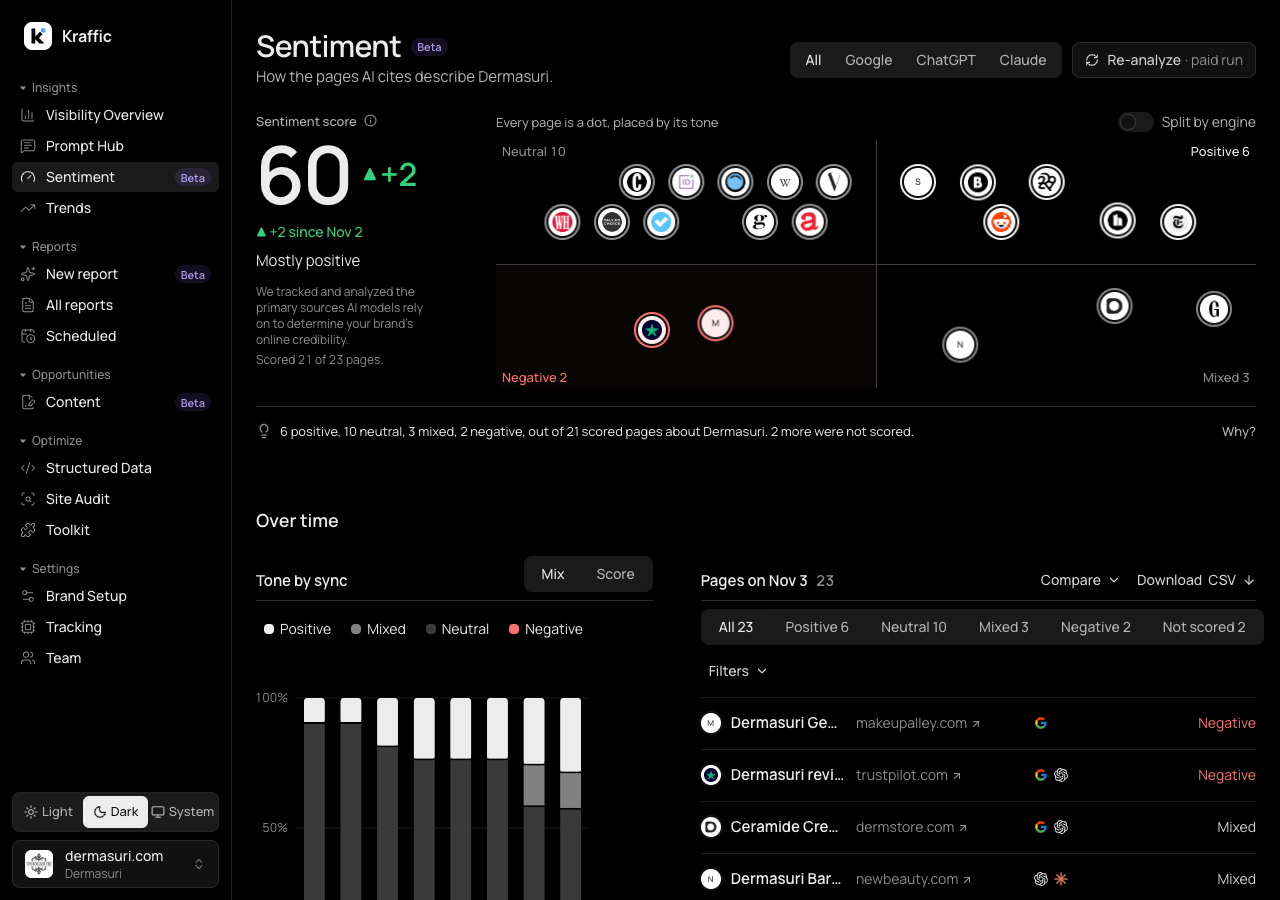
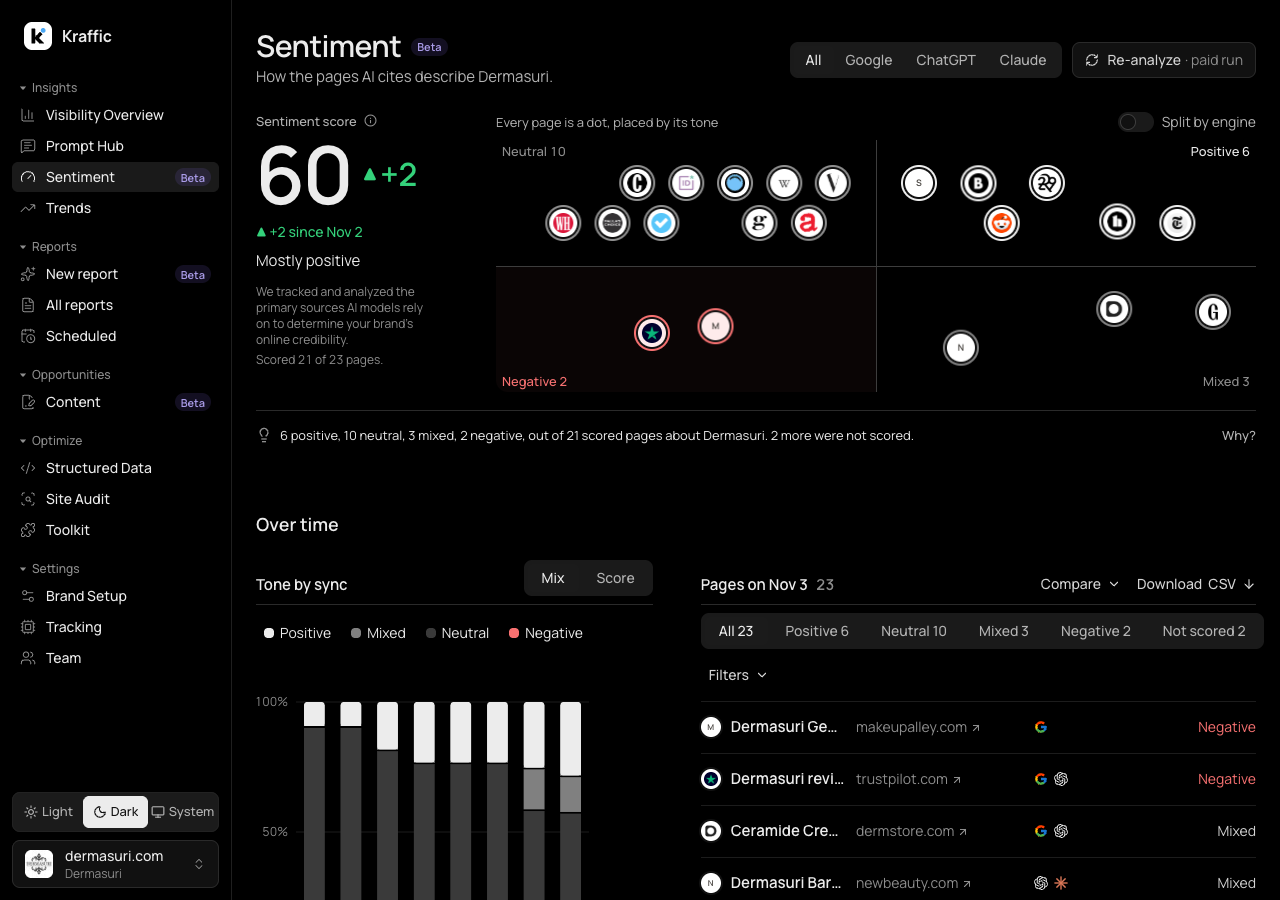
Sentiment scatter, owner tweak: every dot keeps 24px clear of the centre cross's two lines and the outer edges, measured from the dot's edge with its engine badge (the badge now sits inside the dot's corner instead of hanging 4px out) and from a line's far side (the 1px line counted). One EDGE for t

diff --git a/src/pages/insights/SentimentPage.jsx b/src/pages/insights/SentimentPage.jsx
@@ -523,6 +523,9 @@ const QUAD_TEXT = { positive: 'text-ink', negative: 'text-negative', neutral: t3
 // a faint red on Negative only; Positive has no fill (a grey fill read as a box, owner 2026-11-04)
 const QUAD_TINT = { negative: 'color-mix(in srgb, var(--negative) 4%, transparent)' }
 const QUAD_ORDER = ['neutral', 'positive', 'negative', 'mixed']
+// every dot's edge (its badge included: the engine badge sits inside the dot's corner) stays 24px clear of the cross's
+// two lines and the outer edges, measured from a line's far side (+1px, the line itself) (owner, 2026-11-04)
+const EDGE = 25
 
 // ---- the tone grid: 2×2 by tone (Neutral · Positive over Negative · Mixed), every page a dot in its tone's quadrant,
 // scattered organically (utils/spectrum quadrantScatter: seeded by the page URL, so the same spots on every load; 10px
@@ -576,7 +579,7 @@ function Spectrum({ pages: listed, lit, engine, split, onDot = (p) => openDrawer
   const W = Math.max(160, w)
   // about 240px; in the hero as tall as the score column (both end level), never shorter than two rows need
   // about 240px, as tall as the score column (both end level); never less than two staggered rows of dots need
-  const H = Math.max(scatterMinH(r), fitH ?? 240)
+  const H = Math.max(scatterMinH(r, { edge: EDGE }), fitH ?? 240)
   const { c, tone, setTone, explain } = filter || {}
   const counts = c ?? countTones(pages)
 
@@ -586,7 +589,7 @@ function Spectrum({ pages: listed, lit, engine, split, onDot = (p) => openDrawer
   const isActive = (d) => d.shown && (split ? engine === 'all' || d.lane === engine : engine === 'all' || d.page.engines.includes(engine))
   // each corner label's width (13px medium, "Neutral 10"), for the 24px clearance around it
   const labelW = Object.fromEntries(QUAD_ORDER.map((k) => [k, Math.ceil(`${TONE_LABEL[k]} ${counts[k] ?? 0}`.length * 7.4) + 12]))
-  const pack = (list) => quadrantScatter(list.map((d) => ({ key: d.key, tone: d.page.tone, seed: `${d.page.url ?? d.page.id}#${d.lane}` })), { width: W, height: H, r, labelW })
+  const pack = (list) => quadrantScatter(list.map((d) => ({ key: d.key, tone: d.page.tone, seed: `${d.page.url ?? d.page.id}#${d.lane}` })), { width: W, height: H, r, labelW, edge: EDGE })
   const live = pack(plan.filter(isActive))
   const every = pack(plan.filter((d) => d.shown)) // where a dot that's off the grid fades out (its last place)
   const placed = plan.map((d) => {
@@ -684,7 +687,7 @@ function Spectrum({ pages: listed, lit, engine, split, onDot = (p) => openDrawer
                 </span>
               </span>
               {split && d.lane !== 'all' && (
-                <span aria-hidden className="absolute -bottom-1 -right-1 grid h-[18px] w-[18px] place-items-center rounded-full bg-surface ring-1 ring-line transition-opacity duration-150" style={{ opacity: dim ? 0.3 : 1 }}>
+                <span aria-hidden className="absolute bottom-0 right-0 grid h-[18px] w-[18px] place-items-center rounded-full bg-surface ring-1 ring-line transition-opacity duration-150" style={{ opacity: dim ? 0.3 : 1 }}>
                   <EngineIcon id={d.lane} size={12} />
                 </span>
               )}

diff --git a/src/pages/insights/SentimentPage.test.js b/src/pages/insights/SentimentPage.test.js
@@ -64,7 +64,7 @@ test('the insight line runs full width under the dot plot, on one line (owner, 2
 test('the tone grid is about 240px and as tall as the score column (fitH), never below two rows of dots', () => {
   assert.match(hero, /const measure = \(\) => setColH\(colTop\.current\?\.offsetHeight \?\? 0\)/)
   assert.match(hero, /<Spectrum [^>]*fitH=\{fitH\}/)
-  assert.match(spectrum, /const H = Math\.max\(scatterMinH\(r\), fitH \?\? 240\)/)
+  assert.match(spectrum, /const H = Math\.max\(scatterMinH\(r, \{ edge: EDGE \}\), fitH \?\? 240\)/)
   assert.match(page, /const CHART_CHROME = 26 /, 'no axis under the grid: only the label row above it')
 })
 
